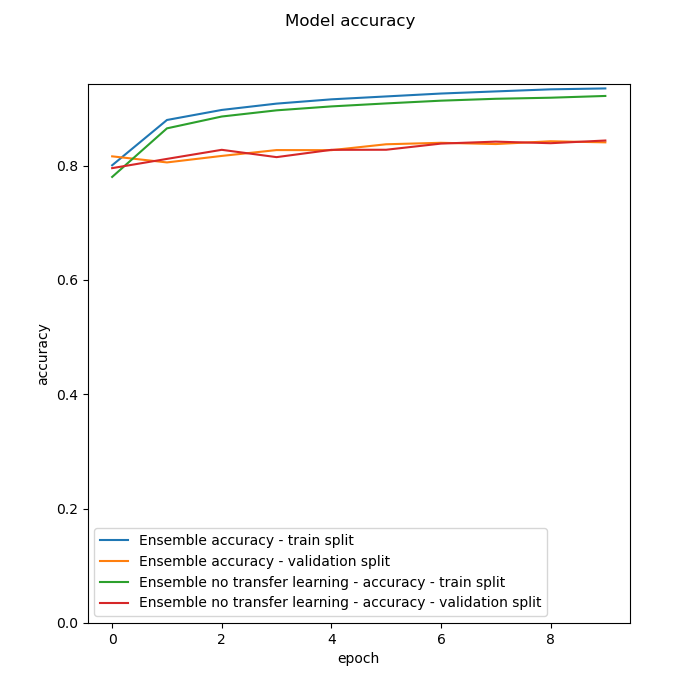
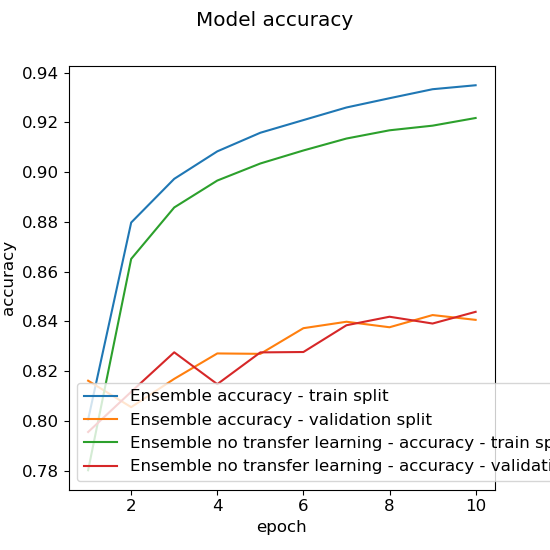
font size

diff --git a/src/results/ensemble/get_metrics_per_epoch.py b/src/results/ensemble/get_metrics_per_epoch.py
@@ -2,6 +2,8 @@ import json
 import matplotlib.pyplot as plt
 import numpy as np
 from mlflow import MlflowClient
+import matplotlib
+matplotlib.rc('font', size=12)
 
 client = MlflowClient()
 runs = client.search_runs(["208298423703336898"])
@@ -39,26 +41,28 @@ def prepare_legend(text: str):
     return text
 
 
-figure, ax = plt.subplots(figsize=(7, 7))
+figure, ax = plt.subplots(figsize=(5.5, 5.5))
 for key in sorted(losses, key=prepare_legend):
-    plt.plot(history[key], label=prepare_legend(key), axes=ax)
+    plt.plot(np.arange(1, 11), history[key], label=prepare_legend(key), axes=ax)
 figure.suptitle("Model loss")
 ax.set_ylabel("loss")
 ax.set_xlabel("epoch")
-ax.legend()
 plt.ylim(bottom=0)
+ax.legend()
 plt.savefig("results/ensemble/loss.png")
 plt.close(figure)
-figure, ax = plt.subplots(figsize=(7, 7))
+
+
+figure, ax = plt.subplots(figsize=(5.5, 5.5))
 for key in sorted(accuracies, key=prepare_legend):
-    plt.plot(history[key], label=prepare_legend(key), axes=ax)
+    plt.plot(np.arange(1, 11), history[key], label=prepare_legend(key), axes=ax)
 ax.set_ylabel("accuracy")
 figure.suptitle("Model accuracy")
 ax.set_xlabel("epoch")
 ax.legend()
-plt.ylim(bottom=0)
 plt.savefig("results/ensemble/acc.png")
 plt.close(figure)
+
 
 
 def win_tie_loss_diagram(epoch):
@@ -68,8 +72,8 @@ def win_tie_loss_diagram(epoch):
     win = sum(acc[0] < acc[1] for acc in epoch_acc)
     tie = sum(acc[0] == acc[1] for acc in epoch_acc)
     lose = sum(acc[0] > acc[1] for acc in epoch_acc)
-    figure, ax = plt.subplots(figsize=(4.5, 4.5))
-    plt.scatter(*list(zip(*epoch_acc)), s=4)
+    figure, ax = plt.subplots(figsize=(5.5, 5.5))
+    plt.scatter(*list(zip(*epoch_acc)), s=8)
     plt.plot([-10, 10], [-10, 10], color="black")
     figure.suptitle(f"Win/tie/lose plot (epoch {epoch})")
     ax.set_ylabel("With transfer learning")

diff --git a/src/results/baseline encoder/get_metrics_per_epoch.py b/src/results/baseline encoder/get_metrics_per_epoch.py
@@ -2,7 +2,8 @@ import json
 import matplotlib.pyplot as plt
 import numpy as np
 from mlflow import MlflowClient
-
+import matplotlib
+matplotlib.rc('font', size=12)
 client = MlflowClient()
 runs = client.search_runs(["674599303712758429"])
 results_root_path="results/baseline encoder"
@@ -40,9 +41,9 @@ def prepare_legend(text: str):
     return text
 
 
-figure, ax = plt.subplots(figsize=(7, 7))
+figure, ax = plt.subplots(figsize=(5.5, 5.5))
 for key in sorted(losses, key=prepare_legend):
-    plt.plot(history[key], label=prepare_legend(key), axes=ax)
+    plt.plot(np.arange(1, 11), history[key], label=prepare_legend(key), axes=ax)
 figure.suptitle("Model loss")
 ax.set_ylabel("loss")
 ax.set_xlabel("epoch")
@@ -52,9 +53,9 @@ plt.savefig(f"{results_root_path}/loss.png")
 plt.close(figure)
 
 
-figure, ax = plt.subplots(figsize=(7, 7))
+figure, ax = plt.subplots(figsize=(5.5, 5.5))
 for key in sorted(accuracies, key=prepare_legend):
-    plt.plot(history[key], label=prepare_legend(key), axes=ax)
+    plt.plot(np.arange(1, 11), history[key], label=prepare_legend(key), axes=ax)
 ax.set_ylabel("accuracy")
 figure.suptitle("Model accuracy")
 ax.set_xlabel("epoch")
@@ -71,8 +72,8 @@ def win_tie_loss_diagram(epoch):
     win = sum(acc[0] < acc[1] for acc in epoch_acc)
     tie = sum(acc[0] == acc[1] for acc in epoch_acc)
     lose = sum(acc[0] > acc[1] for acc in epoch_acc)
-    figure, ax = plt.subplots(figsize=(4.5, 4.5))
-    plt.scatter(*list(zip(*epoch_acc)), s=4)
+    figure, ax = plt.subplots(figsize=(5.5, 5.5))
+    plt.scatter(*list(zip(*epoch_acc)), s=8)
     plt.plot([-10, 10], [-10, 10], color="black")
     figure.suptitle(f"Win/tie/lose plot (epoch {epoch})")
     ax.set_ylabel("With transfer learning")
